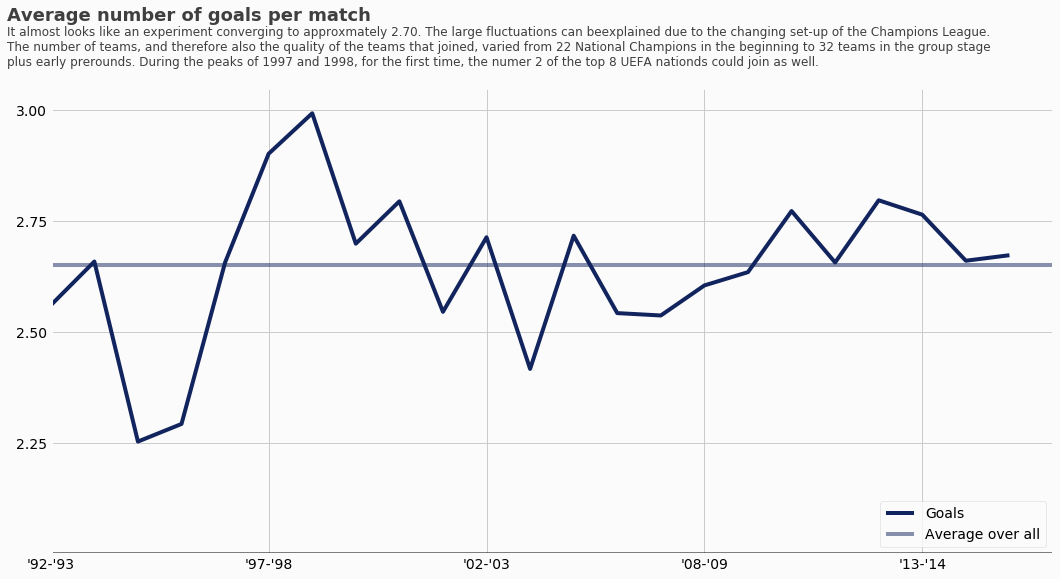
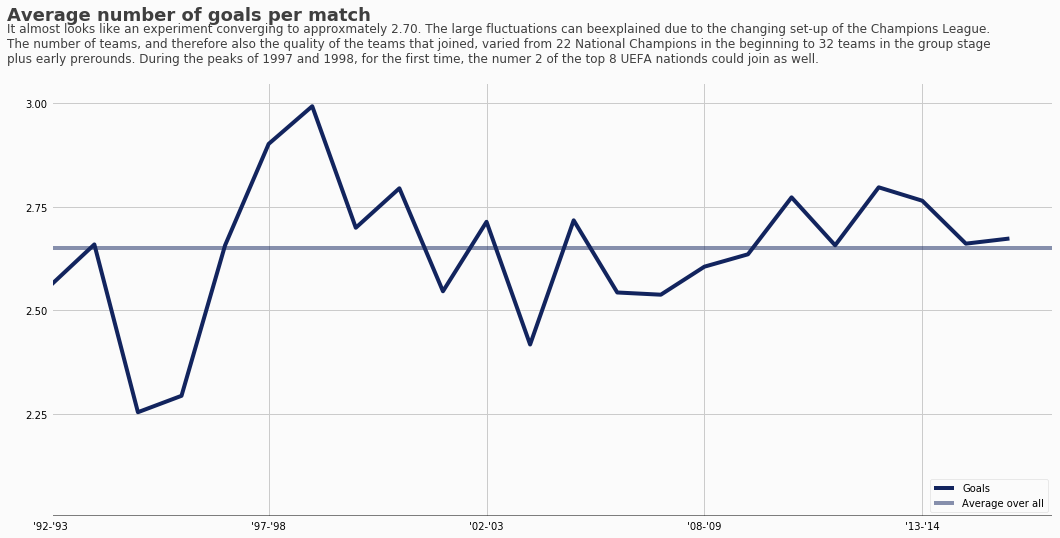
Updated blog

diff --git a/static/css/styles.css b/static/css/styles.css
@@ -26,7 +26,7 @@ time {
 }
 
 #container > * {
-  width: 900px;
+  width: 700px;
   margin: 0 auto;
 }
 

diff --git a/content/posts/benefit-of-scoring-right-before-the-break.md b/content/posts/benefit-of-scoring-right-before-the-break.md
@@ -1,0 +1,81 @@
+---
+title: "Benefit of Scoring Right Before The Break"
+date: 2019-01-07T12:00:00+01:00
+draft: true
+tags: [Football, Webscraping, Data Analysis, Data]
+categories: []
+---
+
+I love watching football but there are several commentators in the Netherlands that have the annoying ability to kick in open doors and present useless facts. Unfortunately Dutch teams are often behind in international matches, so a statement that often returns is *"If they score now, right before the break, they will start the second half with a morale boost"*.
+
+Although I understand the logic behind this reasoning, I have never seen data that substantiates it. Therefore I will try to see for myself whether this statement is correct or not. It is hard to find a large dataset of football goals online, so I'll construct one myself. I know that on [Uefa.com](https://www.uefa.com/uefachampionsleague/season=2016/matches/round=2000638/match=2015789/index.html "Example match") data per match event, per Champions League match, is available.
+
+### Scraping UEFA.com
+
+The [first Champions League match ever played](https://www.uefa.com/uefachampionsleague/history/season=1992/matches/round=46/match=6199/events/index.html "First Champions League match") was between *KI Klaksvik* and *Skonto Riga*. I'll admit that I had never ever heard from those teams. In order to see whether there is an advantage in scoring right before the break we need to know from every goal in what minute is was scored and by which team. The final score was 1-3 and scraping the webpage should therefore result in something similar as the table below. I want to know which period each goal is to distinguish between *45 + 1'* (added time first half) and *46'* (first minute second half).
+
+| Team | Minute | Period      |
+|:---- |-------:|:----------- |
+| Home |     46 | Second Half |
+| Away |     90 | Second Half |
+| Away |     46 | Second Half |
+| Away |     46 | Second Half |
+| Away |     28 | First Half  |
+
+To find all matches we have to scrape the match-overview pages. These all have the same pattern, with three variables: season, day and session. See this [example](https://www.uefa.com/uefachampionsleague/season=2017/matches/library/fixtures/day=11/session=1/_matchesbydate.html?_=1).
+
+Variable *season* is easy to guess, this varies between 1992 and 2017. However, 2007 is missing (I guess due to a change in UEFA naming of the seasons). Season ['07-'08](https://www.uefa.com/uefachampionsleague/history/season=2008/ "Season 2007-2008") has variable 2008 and season ['06-'07](https://www.uefa.com/uefachampionsleague/history/season=2006/ "Seasons 2006-2007") has variable 2006. The day variable is a bit more difficult. I could have automated this as well, but by trial-and-error I found out that *day* stands for the week and can vary between -13 and 26 (this varies per seasons). Finally, *session* stands for the matches played on Tuesday (0) and Wednesday (1).
+
+After scraping all goal related match-events ([using this code](https://github.com/uijl/uijl.github.io_code/blob/master/Football/Scrape%20UEFA%20data.ipynb)) I ended up with a json file per season containing all goals ([stored here](https://github.com/uijl/uijl.github.io_code/tree/master/Football/Goal%20information)) and a csv file per seasons containing all links to matches ([stored here](https://github.com/uijl/uijl.github.io_code/tree/master/Football/Match%20links)).
+
+### Overview of goals per Champions League match
+
+The first basic analysis of the dataset I just obtained is checking the number of goals per seasons and per match. The total number of goals is 25,262 and the number of matches in the dataset is 9,532. Resulting in an average of 2.65 goals per match. This is slightly higher than I expected. The plot below shows the average number of goals per match, per season, over the full dataset. It is interesting to see that it fluctuates strongly in the first few years. The fluctuations decrease – due to an increase in professionality? – with time.
+
+![Average number of goals per Champions League match](https://raw.githubusercontent.com/uijl/uijl.github.io_blog/master/figures/football-average-goals-per-match.png "Average number of goals per Champions League match")
+
+### What is *right before the brak*
+
+So, finally the analysis that is the reason for me to start this exercise. For an actual scientific answer I would like to have had a larger dataset, but with close to 10,000 matches I hope to get close to an accurate answer. What would be an interesting *period of interest* in which the scoring team would actually benefit from scoring. To answer that, I plotted the percentage of goals scored for every minute of the match, see the example below.
+
+![Percentage of goals per minute](https://raw.githubusercontent.com/uijl/uijl.github.io_blog/master/figures/football-goals-per-minute.png "Percentage of goals per minute")
+
+It seems to be quite scattered, but what is interesting is that the percentage of goals scored in the first half is skewed towards the final minutes. In the second half it seems to be more uniformly distributed, except for the 90th minute. The final 5 minutes of the first half are somewhat uniformly distributed as well, and therefore I define *right before the break* as the time between minute 40 and the break. The plot below shows the percentage of goals as well, but bucketed into 5 minute windows.
+
+![Percentage of goals per minute](https://raw.githubusercontent.com/uijl/uijl.github.io_blog/master/figures/football-goals-per-minute-buckets.png "Percentage of goals per minute")
+
+### Benefit of scoring right before the break
+
+For this analysis I do not care whether the goal is scored by the home-team or the away-team. I also do not care if more than one goal is scored during the *period of interest*. Only about the last goal scored during the *period of interest*. In my opinion there are four interesting options if a team scores:
+
+- **Team increases its lead.** Only the case if the team increases a one-goal advantage.
+- **Team takes the lead.** Game is tied and before the break one of teams scores.
+- **Team ties the game.** The trailing team scores an equalizer right before the break.
+- **Team decreases goal difference.** Only if the trailing team reduces the goal difference to 1 right before the break.
+
+Of the total dataset with 9,532 matches there are 7,789 matches with no goal within the period of interest. From the remaining 1,743 matches I take 22 matches not into account because the lead of one of the teams is too large. So the final dataset contains 1,721 matches.
+
+| Option   | Matches | Wins   | Ties   | Losses |
+|:-------- | -------:| ------:| ------:| ------:|
+| Option 1 |     617 | 92.87% |  5.51% |  1.62% |
+| Option 2 |     782 | 74.42% | 15.86% |  9.72% |
+| Option 3 |     239 | 41.84% | 23.85% | 34.31% |
+| Option 4 |      83 | 18.07% | 15.66% | 66.27% |
+
+It suprised me how strong this effect is. Especially *option 3*, you would expect that a tied score during the break would be like "starting over". However, the data showed that in the 239 games in which this specific event took place, the team scoring the equalizer right before the break is more likely to win.
+
+To see to what extend scoring *right before the break* has an effect, I did the same analysis without a specific period. Just by looking at the team that scored the last goal before the break. As the table below shows, for option 1 and option 2 the results are similar. However, for a team that is trailing (option 3 and option 4) the effect of scoring right before the break is much more significant. Gaining a point (win +3 or tie +1) is much more likely if you score right before the break.
+
+| Option   | Matches | Wins   | Ties   | Losses |
+|:-------- | -------:| ------:| ------:| ------:|
+| Option 1 |   1,545 | 94.56% |  4.01% |  1.42% |
+| Option 2 |   3,716 | 74.35% | 16.87% |  8.77% |
+| Option 3 |     879 | 33.67% | 33.11% | 33.22% |
+| Option 4 |     198 | 16.16% | 26.26% | 57.58% |
+
+### Conclusion
+
+This shows that the Dutch commentators are right when they come with their favorite open door. For a trailing team there seems to be a significant boost when they score right before the break.
+
+<br>
+**This was my first blog post. If you have any recommendations, please contact me on [Twitter](https://www.twitter.com/jorisdenuijl "Twitter of Joris") or [GitHub](https://github.com/uijl/uijl.github.io_code "GitHub of Joris"). And if you like it, please share!**

diff --git a/content/reading.md b/content/reading.md
@@ -1,6 +1,6 @@
 ---
 title: "Reading"
-date: 2018-12-24T15:51:14+01:00
+date: 2019-01-01T12:00:00+01:00
 draft: false
 menu: "main"
 meta: "false"
@@ -12,16 +12,16 @@ I plan to keep a list of the books I have read since past year.
 
 I have not finished any book yet, but I am reading the following:
 
-- [The Black Swan - Nassim Nicholas Taleb](https://www.goodreads.com/book/show/242472.The_Black_Swan).
+- [The Black Swan - Nassim Nicholas Taleb.](https://www.goodreads.com/book/show/242472.The_Black_Swan) I find it hard to get through this book, but I enjoy the insights and the way of thinking that Taleb presents.
 
 ### 2018
 
-Unfortunately this list is not as long as I thought it would be.
+Unfortunately this list is not as long as I hoped it would be.
 
 - [Sapiens - Yuval Noah Hariri.](https://www.goodreads.com/book/show/23692271-sapiens) I read this Book, just like everyone else. But unlike most people, I found it kind of hard to get through.
 - [Moneyball - Michael Lewis.](https://www.goodreads.com/book/show/1301.Moneyball) I like the books by Michael Lewis, I have read two books by him this year.
-- [Born a Crime - Trevor Noah.](https://www.goodreads.com/book/show/29780253-born-a-crime)
-- [Liar's Poker - Michael Lewis.](https://www.goodreads.com/book/show/7865083-liar-s-poker)
-- [The Sellout - Paul Beatty.](https://www.goodreads.com/book/show/22237161-the-sellout)
-- [Against the Gods - Peter Bernstein.](https://www.goodreads.com/book/show/128429.Against_the_Gods)
-- [Origin - Dan Brown.](https://www.goodreads.com/book/show/32283133-origin)
+- [Born a Crime - Trevor Noah.](https://www.goodreads.com/book/show/29780253-born-a-crime) Loved it. 
+- [Liar's Poker - Michael Lewis.](https://www.goodreads.com/book/show/7865083-liar-s-poker) The second book of Michael Lewis that I read in 2018.
+- [The Sellout - Paul Beatty.](https://www.goodreads.com/book/show/22237161-the-sellout) I do not think that I understood it. It was very fun, and I love satire, but I feel like I missed something.
+- [Against the Gods - Peter Bernstein.](https://www.goodreads.com/book/show/128429.Against_the_Gods) Interesting book on the definiting of risk and probability throughout the modern times.
+- [Origin - Dan Brown.](https://www.goodreads.com/book/show/32283133-origin) The only true novel I read this year. I always like to books by Dan Brown, with recurring patterns of symbolics and art history.

diff --git a/content/about.md b/content/about.md
@@ -1,13 +1,13 @@
 ---
 title: "About"
-date: 2018-12-24T15:50:44+01:00
+date: 2019-01-01T12:00:00+01:00
 draft: false
 menu: "main"
 meta: "false"
 ---
 
-My name is Joris den Uijl. I graduated as a [hydraulic engineer from TU Delft](https://www.tudelft.nl/en/ceg/about-faculty/departments/hydraulic-engineering/) in January '18. During my study I got more and more interested in "tech". I started reading Hacker News, following ProductHunt and tought myself python programming. Luckily I was able to join a [large marine contractor](https://www.vanoord.com/ "Van Oord") as a Data Engineer.
+My name is Joris den Uijl. I graduated as a [hydraulic engineer from TU Delft](https://www.tudelft.nl/en/ceg/about-faculty/departments/hydraulic-engineering/) in January '18. During my study I got more and more interested in "tech". I started reading Hacker News, following ProductHunt and taught myself python programming. After my graduation I worked one year as a quantitave consultant in finance. Luckily I got a call from my former graduation supervisor and was able to join a [large marine contractor](https://www.vanoord.com/ "Van Oord") as a Data Engineer.
 
 I like data science/analytics/visualisation and python so most of my _projects_ will comprise either analysing data or obtaining data. I'll post all code as python notebooks on [GitHub](https://github.com/uijl/uijl.github.io_code "GitHub of Joris").
 
-If you wish to contact feel free to send me a message on [twitter](https://www.twitter.com/jorisdenuijl "Twitter of Joris") or connect with me on [LinkedIn]("LinkedIn of Joris").
+If you wish to contact feel free to send me a message on [Twitter](https://www.twitter.com/jorisdenuijl "Twitter of Joris") or connect with me on [LinkedIn](https://www.linkedin.com/in/jorisdenuijl "LinkedIn of Joris").

diff --git a/content/recommendations.md b/content/recommendations.md
@@ -1,6 +1,6 @@
 ---
 title: "Recommendations"
-date: 2018-12-24T15:51:14+01:00
+date: 2019-01-01T12:00:00+01:00
 draft: false
 menu: "main"
 meta: "false"

diff --git a/content/goals.md b/content/goals.md
@@ -1,6 +1,6 @@
 ---
 title: "Goals"
-date: 2018-12-24T15:51:09+01:00
+date: 2019-01-01T12:00:00+01:00
 draft: false
 menu: "main"
 meta: "false"
